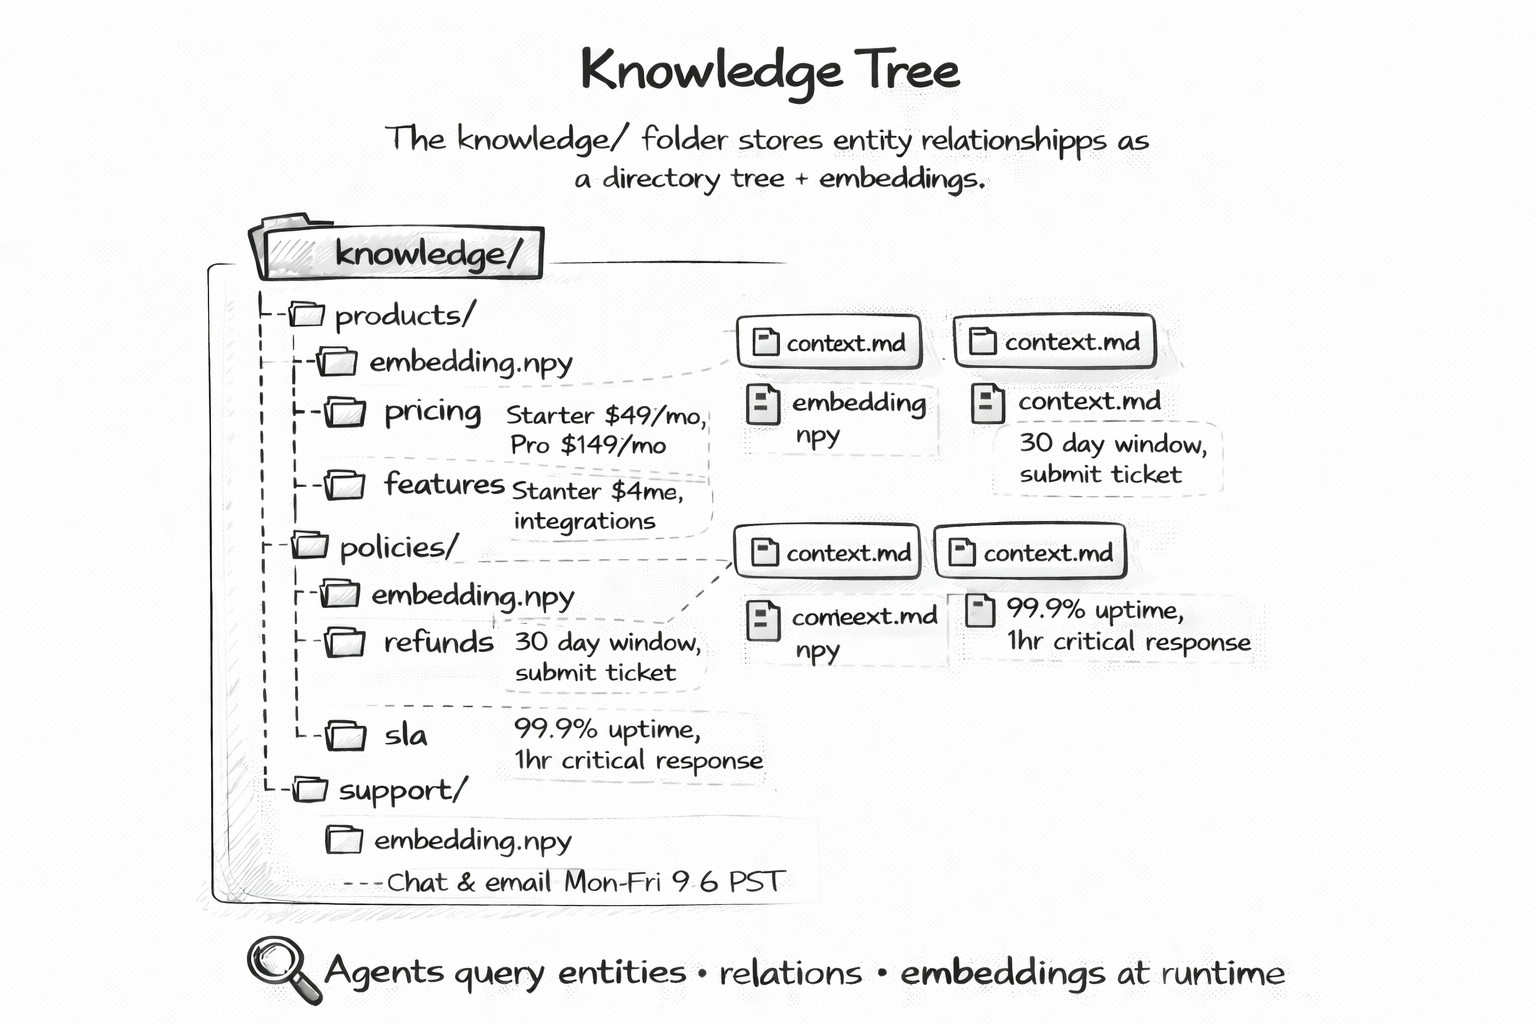
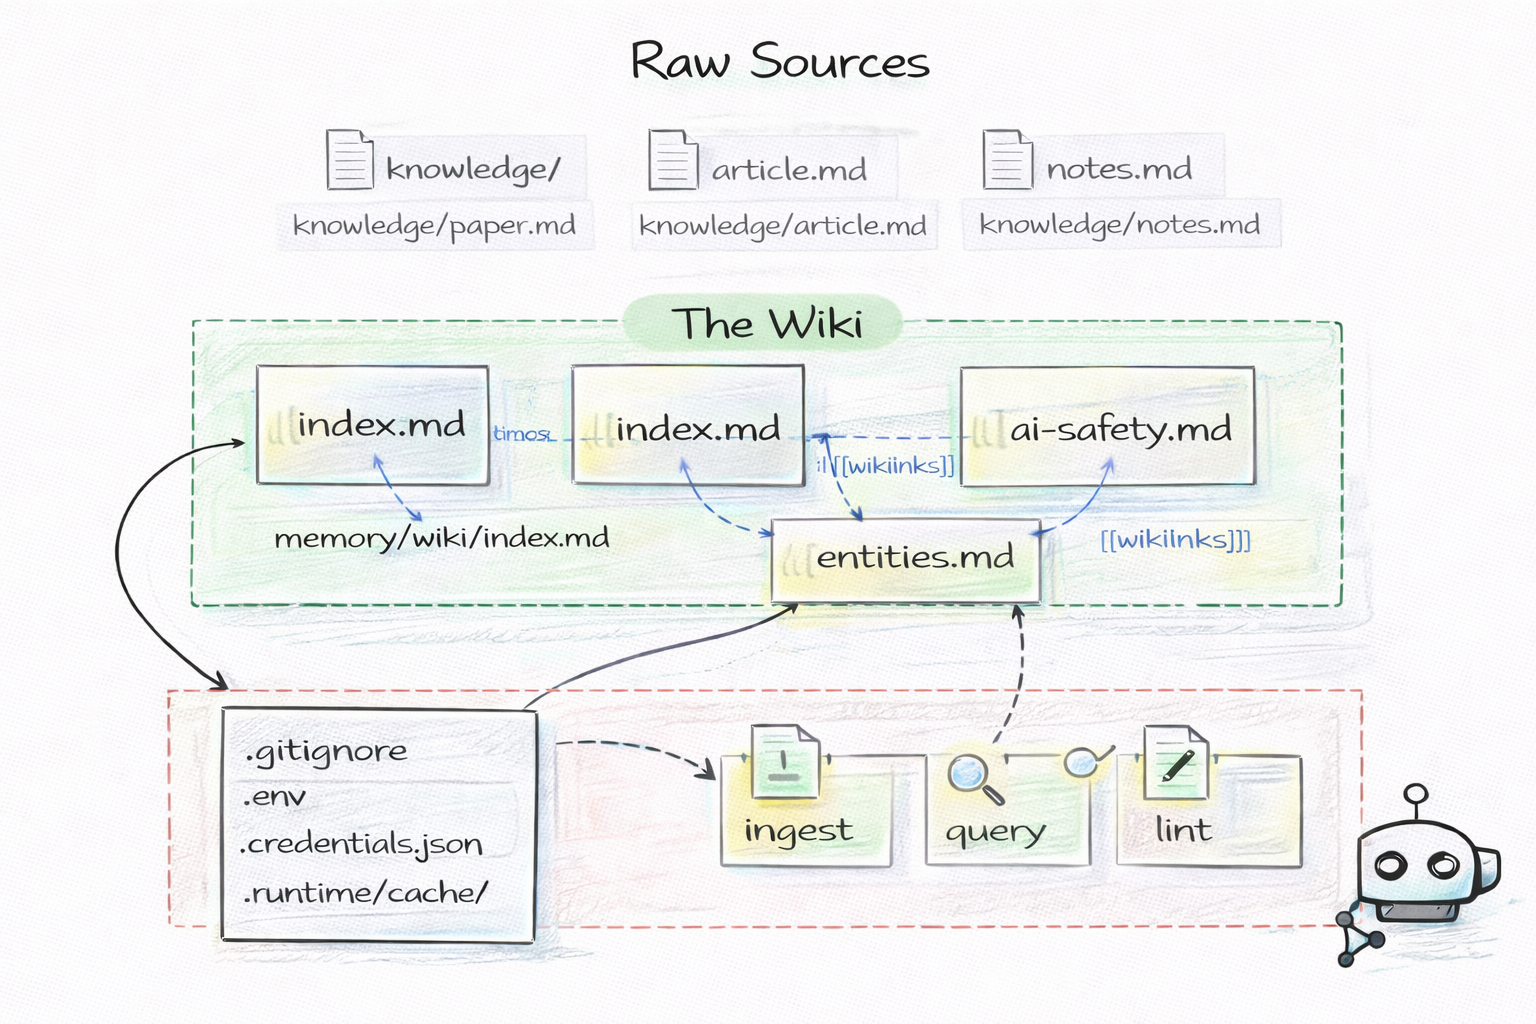
feat: add LLM Wiki pattern image and link to Karpathy's gist
Replace placeholder with generated diagram showing the 3-layer
architecture (raw sources, wiki pages, ingest/query/lint skills).
Add link to Karpathy's original LLM Wiki gist.

diff --git a/src/components/PatternsSection.tsx b/src/components/PatternsSection.tsx
@@ -70,7 +70,7 @@ export function PatternsSection() {
               <span className="text-sm font-heading font-semibold text-foreground">LLM Wiki — Persistent Knowledge Base</span>
             </div>
             <p className="text-xs text-muted-foreground mb-5 leading-relaxed font-body relative z-10">
-              Instead of RAG that rediscovers knowledge on every query, the LLM <strong>incrementally builds a wiki</strong> from raw sources in <code className="text-foreground/70">knowledge/</code>. Compiled pages live in <code className="text-foreground/70">memory/wiki/</code> with cross-references, an <code className="text-foreground/70">index.md</code> catalog, and a chronological <code className="text-foreground/70">log.md</code>. Three skills — <code className="text-foreground/70">ingest</code>, <code className="text-foreground/70">query</code>, <code className="text-foreground/70">lint</code> — maintain the knowledge base over time. Scaffold with <code className="text-foreground/70">gitagent init --template llm-wiki</code>.
+              Instead of RAG that rediscovers knowledge on every query, the LLM <strong>incrementally builds a wiki</strong> from raw sources in <code className="text-foreground/70">knowledge/</code>. Compiled pages live in <code className="text-foreground/70">memory/wiki/</code> with cross-references, an <code className="text-foreground/70">index.md</code> catalog, and a chronological <code className="text-foreground/70">log.md</code>. Three skills — <code className="text-foreground/70">ingest</code>, <code className="text-foreground/70">query</code>, <code className="text-foreground/70">lint</code> — maintain the knowledge base over time. Inspired by <a href="https://gist.github.com/karpathy/442a6bf555914893e9891c11519de94f" target="_blank" rel="noopener noreferrer" className="text-primary hover:underline">Karpathy's LLM Wiki pattern</a>. Scaffold with <code className="text-foreground/70">gitagent init --template llm-wiki</code>.
             </p>
             <img
               src={llmWikiImg}